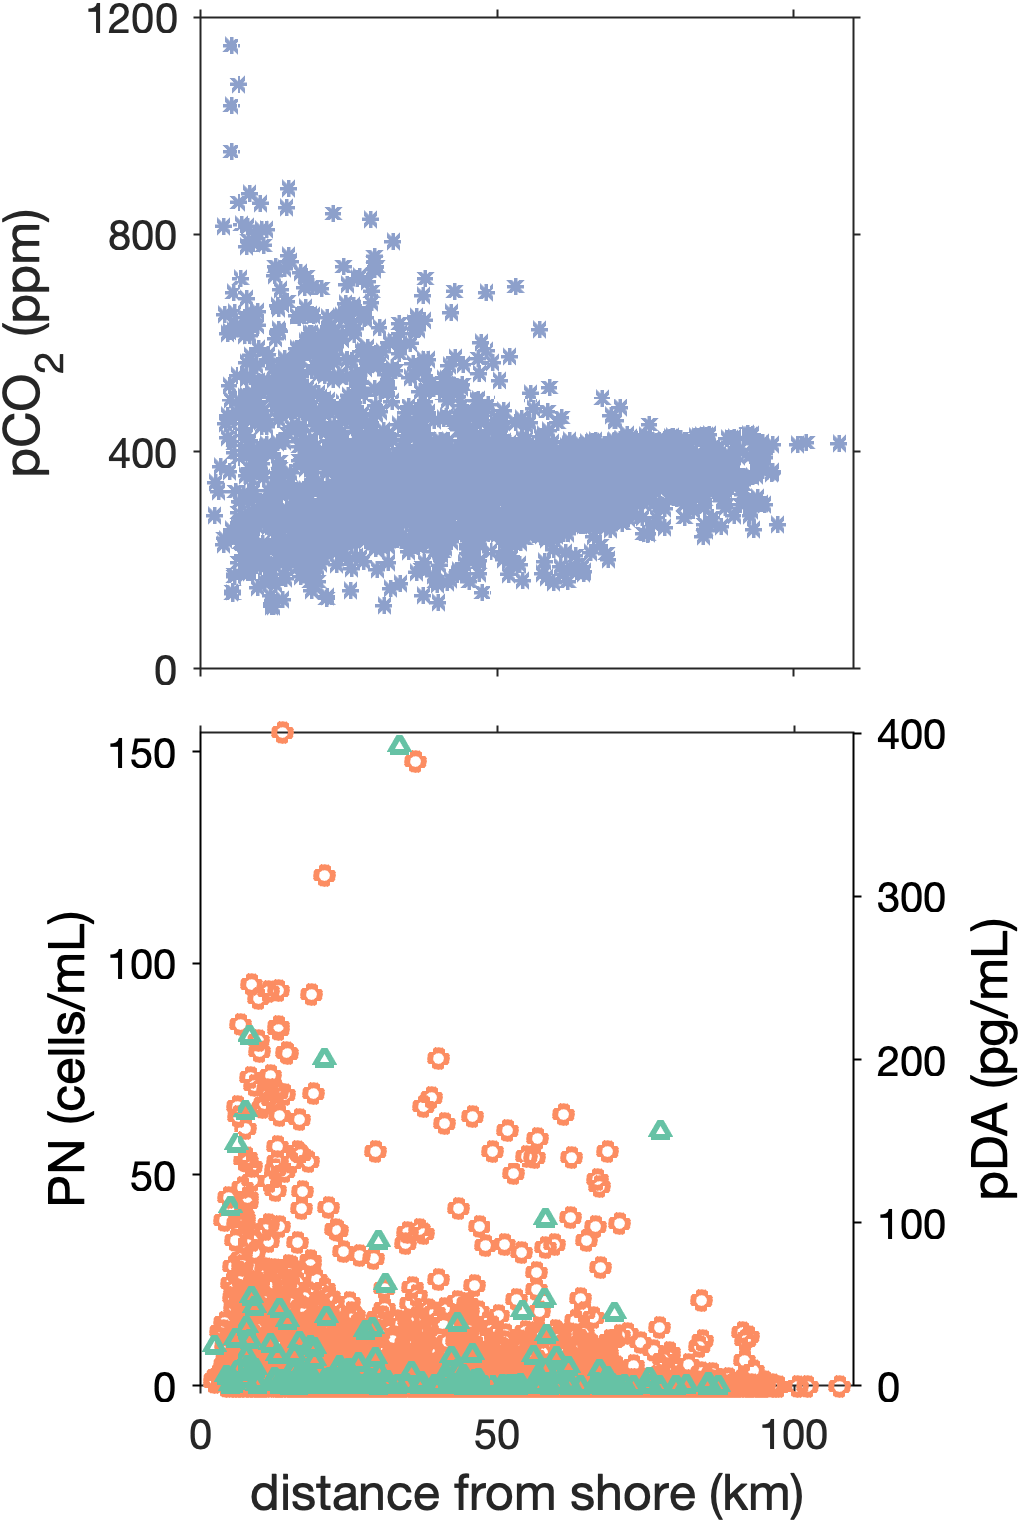
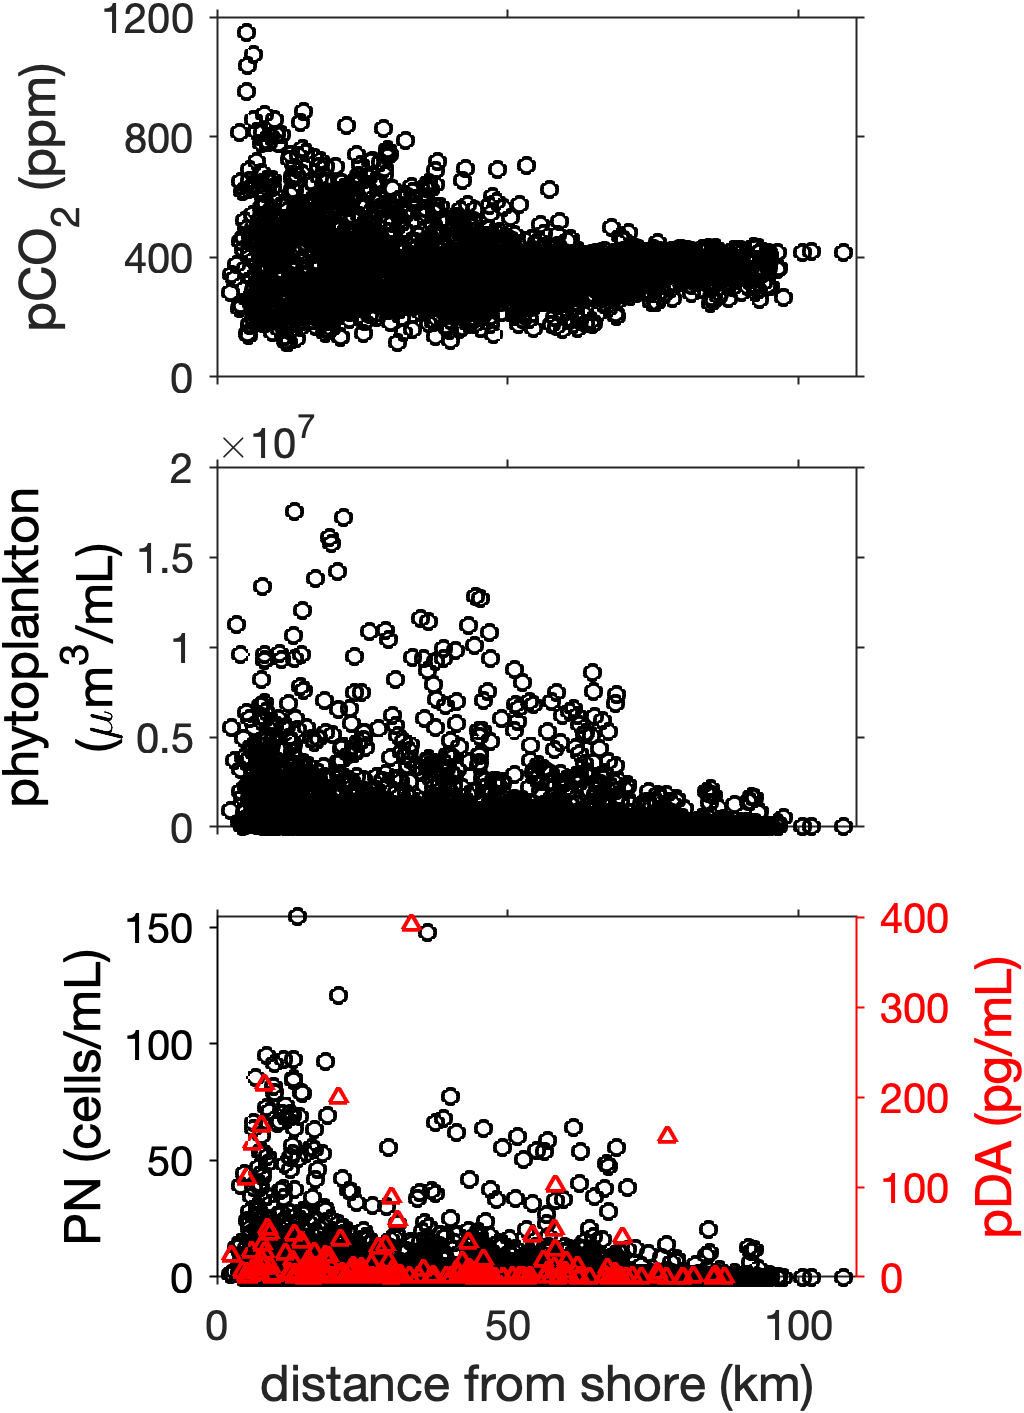
Fl in summary file

diff --git a/NOAA/Shimada/plot_distance_pCO2_PN.m b/NOAA/Shimada/plot_distance_pCO2_PN.m
@@ -1,0 +1,125 @@
+%% dome shaped relationship
+clear;
+filepath = '~/Documents/MATLAB/bloom-baby-bloom/';
+addpath(genpath('~/Documents/MATLAB/ifcb-analysis/')); % add new data to search path
+addpath(genpath(filepath)); % add new data to search path
+
+load([filepath 'NOAA/Shimada/Data/summary_19-21Hake_4nicheanalysis.mat'],'P');
+
+%% split data by region
+
+iJ=(P.LAT>48);
+iH=(P.LAT>43 & P.LAT<45);
+iT=(P.LAT<43);
+
+c=brewermap(3,'Set2');
+fig=figure; set(gcf,'color','w','Units','inches','Position',[1 1 3.5 5.]); 
+subplot = @(m,n,p) subtightplot (m, n, p, [0.06 0.06], [0.12 0.04], [0.21 0.18]);
+%subplot = @(m,n,p) subtightplot(m,n,p,opt{:}); 
+%where opt = {gap, height, width} describes the inner and outer spacings.  
+
+subplot(3,1,1)
+scatter(P.coast_km,P.PCO2,14,'ko','linewidth',1)
+set(gca,'xlim',[0 110],'xtick',0:50:100,'xticklabel',{},...
+    'ytick',0:400:1200,'ylim',[0 1200],'tickdir','out','fontsize',10);
+ylabel('pCO_2 (ppm)','fontsize',12)
+box on;
+
+% subplot(3,1,2)
+% scatter(P.coast_km(iJ),P.PN_cell(iJ),14,c(1,:),'d','linewidth',1); hold on;
+% scatter(P.coast_km(iH),P.PN_cell(iH),14,c(2,:),'*','linewidth',1); hold on;
+% scatter(P.coast_km(iT),P.PN_cell(iT),14,c(3,:),'o','linewidth',1); hold on;
+% set(gca,'xlim',[0 110],'xtick',0:50:100,'xticklabel',{},...
+%     'tickdir','out','fontsize',10);
+% legend('JDF','HB','TH'); legend boxoff;
+% ylabel('PN (cells/mL)','fontsize',12,'color','k')
+% box on;
+
+subplot(3,1,2)
+scatter(P.coast_km,sum([P.diatom_biovol,P.dino_biovol],2),14,'ko','linewidth',1)
+set(gca,'ylim',[0 2*10^7],'xlim',[0 110],'xtick',0:50:100,'xticklabel',{},...
+    'tickdir','out','fontsize',10);
+ylabel({'phytoplankton';'(\mum^3/mL)'},'fontsize',12,'color','k')
+box on;
+
+subplot(3,1,3)
+yyaxis left
+scatter(P.coast_km,P.PN_cell,14,c(2,:),'ko','linewidth',1)
+set(gca,'ycolor','k')
+ylabel('PN (cells/mL)','fontsize',12,'color','k')
+
+yyaxis right
+scatter(P.coast_km,P.pDA_pgmL,14,'r^','linewidth',1)
+set(gca,'xlim',[0 110],'xtick',0:50:100,'tickdir','out','ycolor','r');
+xlabel('distance from shore (km)','fontsize',12)
+ylabel('pDA (pg/mL)','fontsize',12,'color','r')
+box on;
+
+exportgraphics(fig,[filepath 'NOAA/Shimada/Figs/distance_pCO2_PN_DA.png'],'Resolution',300)    
+
+%%
+c=brewermap(3,'Set2');
+fig=figure; set(gcf,'color','w','Units','inches','Position',[1 1 3.5 4.]); 
+subplot = @(m,n,p) subtightplot (m, n, p, [0.06 0.06], [0.12 0.04], [0.21 0.18]);
+%subplot = @(m,n,p) subtightplot(m,n,p,opt{:}); 
+%where opt = {gap, height, width} describes the inner and outer spacings.  
+
+subplot(2,1,1)
+scatter(P.coast_km,P.PCO2,14,'ko','linewidth',1)
+set(gca,'xlim',[0 110],'xtick',0:50:100,'xticklabel',{},...
+    'ytick',0:400:1200,'ylim',[0 1200],'tickdir','out','fontsize',10);
+ylabel('pCO_2 (ppm)','fontsize',12)
+box on;
+
+subplot(2,1,2)
+yyaxis left
+scatter(P.coast_km,P.PN_cell,14,c(2,:),'ko','linewidth',1)
+set(gca,'ycolor','k')
+ylabel('PN (cells/mL)','fontsize',12,'color','k')
+
+yyaxis right
+scatter(P.coast_km,P.pDA_pgmL,14,'r^','linewidth',1)
+set(gca,'xlim',[0 110],'xtick',0:50:100,'tickdir','out','ycolor','r');
+xlabel('distance from shore (km)','fontsize',12)
+ylabel('pDA (pg/mL)','fontsize',12,'color','r')
+box on;
+
+%exportgraphics(fig,[filepath 'NOAA/Shimada/Figs/distance_pCO2_PN_DA.png'],'Resolution',300)    
+
+%%
+
+% subplot(3,1,2)
+% scatter(P.coast_km,P.chlA_ugL,14,'ko','linewidth',1)
+% set(gca,'xlim',[0 110],'xtick',0:50:100,'xticklabel',{},...
+%     'ytick',0:20:40,'ylim',[0 43],'tickdir','out','fontsize',10);
+% ylabel('Chl a (ug/L)','fontsize',12,'color','k')
+% box on;
+
+%% older
+c=brewermap(3,'Set2');
+fig=figure; set(gcf,'color','w','Units','inches','Position',[1 1 3.5 5.3]); 
+subplot = @(m,n,p) subtightplot (m, n, p, [0.04 0.04], [0.1 0.04], [0.13 0.1]);
+%subplot = @(m,n,p) subtightplot(m,n,p,opt{:}); 
+%where opt = {gap, height, width} describes the inner and outer spacings.  
+subplot(2,1,1)
+scatter(P.coast_km,P.PCO2,16,c(3,:),'*','linewidth',1)
+set(gca,'xlim',[0 110],'xtick',0:50:100,'xticklabel',{},...
+    'ytick',0:400:1200,'tickdir','out','fontsize',10);
+ylabel('pCO_2 (ppm)','fontsize',12)
+axis square; box on;
+
+subplot(2,1,2)
+yyaxis left
+scatter(P.coast_km,P.PN_cell,16,c(2,:),'o','linewidth',1.6)
+set(gca,'ycolor','k')
+ylabel('PN (cells/mL)','fontsize',12,'color','k')
+
+yyaxis right
+scatter(P.coast_km,P.pDA_pgmL,16,c(1,:),'^','linewidth',1.5)
+set(gca,'xlim',[0 110],'xtick',0:50:100,'tickdir','out','ycolor','k');
+xlabel('distance from shore (km)','fontsize',12)
+ylabel('pDA (pg/mL)','fontsize',12,'color','k')
+axis square; box on;
+
+exportgraphics(fig,[filepath 'NOAA/Shimada/Figs/distance_pCO2_PN_DA.png'],'Resolution',300)    
+

diff --git a/NOAA/Shimada/make_Hake_summary_4niche_analysis.m b/NOAA/Shimada/make_Hake_summary_4niche_analysis.m
@@ -12,11 +12,11 @@ addpath(genpath(filepath));
 
 %%%% match timestamps of sensor data and HAB data
 %%%% merge 2019 and 2021 data
-S19=load([filepath 'NOAA/Shimada/Data/environ_Shimada2019'],'DT','LON','LAT','TEMP','SAL','PCO2');
-S21=load([filepath 'NOAA/Shimada/Data/environ_Shimada2021'],'DT','LON','LAT','TEMP','SAL','PCO2');
+S19=load([filepath 'NOAA/Shimada/Data/environ_Shimada2019'],'DT','LON','LAT','TEMP','SAL','PCO2','FL');
+S21=load([filepath 'NOAA/Shimada/Data/environ_Shimada2021'],'DT','LON','LAT','TEMP','SAL','PCO2','FL');
 DT=[S19.DT;S21.DT]; LON=[S19.LON;S21.LON]; LAT=[S19.LAT;S21.LAT];
-TEMP=[S19.TEMP;S21.TEMP]; SAL=[S19.SAL;S21.SAL]; PCO2=[S19.PCO2;S21.PCO2];
-T=timetable(DT,LAT,LON,TEMP,SAL,PCO2);
+TEMP=[S19.TEMP;S21.TEMP]; SAL=[S19.SAL;S21.SAL]; PCO2=[S19.PCO2;S21.PCO2]; FL=[S19.FL;S21.FL];
+T=timetable(DT,LAT,LON,TEMP,SAL,PCO2,FL);
 
 load([filepath 'NOAA/Shimada/Data/HAB_merged_Shimada19-21'],'HA'); %GMT time
 HA.dt.Format='yyyy-MM-dd HH:mm:ss'; HA.dt=dateshift(HA.dt,'start','minute');
@@ -67,7 +67,7 @@ for i=1:length(idx)
     T.P2N(irange)=T.P2N(idx(i));      
 end
 
-clearvars S19 S21 LON LAT TEMP SAL PCO2 H HA DT i 
+clearvars S19 S21 LON LAT TEMP SAL PCO2 H HA DT i FL
 
 %% format IFCB data
 load([filepath 'IFCB-Data/Shimada/class/summary_biovol_allTB_' classifiername],...
@@ -172,7 +172,7 @@ P.pDA_fgmL=P.pDA_pgmL.*0.001.*1000000; %convert to fg/mL
 % make 2019 and 2021 datasets equivalent
 P(P.LAT<40,:)=[]; % remove data south of 40 N
 P(P.LAT>47.5 & P.LON>-124.7,:)=[]; %remove data from the Strait
-P=movevars(P,{'LAT' 'LON' 'gap_km' 'sample_km' 'coast_km' 'TEMP' 'SAL' 'PCO2' 'Nitrate_uM' 'Phosphate_uM' ...
+P=movevars(P,{'LAT' 'LON' 'gap_km' 'sample_km' 'coast_km' 'TEMP' 'SAL' 'PCO2' 'FL' 'Nitrate_uM' 'Phosphate_uM' ...
     'Silicate_uM' 'P2N' 'S2N' 'chlA_ugL' 'pDA_pgmL' 'pDA_fgmL'},'Before','filelistTB');
 P(isnan(P.LAT),:)=[];
 

diff --git a/NOAA/Shimada/map_pcolor_discrete_enviro_Shimada_CCS.m b/NOAA/Shimada/map_pcolor_discrete_enviro_Shimada_CCS.m
@@ -13,8 +13,8 @@ unit=0.06;
 %%%% load in discrete data
 load([filepath 'NOAA/Shimada/Data/HAB_merged_Shimada19-21'],'HA');
 HA((HA.lat<40),:)=[]; %remove CA stations
-%data=HA.chlA_ugL; cax=[1 20]; ticks=[1,10,20]; label={'Extracted';'Chl a (ug/L)'};%name='CHL'; col=brewermap(256,'BuGn'); col(1:50,:)=[]; lim=0;
-data=HA.Nitrate_uM; cax=[0 48]; ticks=[0,24,48]; label={'NO_3^- (\muM)'}; name='NIT'; col=brewermap(256,'BuGn'); col(1:50,:)=[]; lim=0.6;
+data=HA.chlA_ugL; cax=[0 20]; ticks=[0,10,20]; label={'Chl a (ug/L)'}; name='CHL'; col=brewermap(256,'BuGn'); col(1:50,:)=[]; lim=.1;
+%data=HA.Nitrate_uM; cax=[0 48]; ticks=[0,24,48]; label={'NO_3^- (\muM)'}; name='NIT'; col=brewermap(256,'BuGn'); col(1:50,:)=[]; lim=0.6;
 %data=HA.Phosphate_uM; cax=[0 3]; ticks=[0,1.5,3]; label={'PO_4^{3−} (\muM)'}; name='PHS';col=brewermap(256,'BuGn'); col(1:50,:)=[]; lim=0.6;
 %data=HA.Silicate_uM; cax=[0 48]; ticks=[0,24,48]; label={'Si(OH)_4 (\muM)'}; name='SIL';col=brewermap(256,'BuGn'); col(1:50,:)=[]; lim=1.1;
 %data=HA.Silicate_uM; cax=[0 300]; ticks=[0,300]; label={'Si(OH)_4 (\muM)'}; name='SILHi';col=brewermap(256,'BuGn'); col(1:50,:)=[]; lim=1.1;
@@ -30,12 +30,15 @@ elseif yr==2021
     data=data(idx); lat = HA.lat(idx); lon = HA.lon(idx);  
 end
 
-idx=(find(data>lim))
-%idx=find(lat>44 & lat<46);
-nanmean(data(idx))
-nanstd(data(idx))
-%length(find(data(idx)>lim))./length(data(idx))
+max(data)
+
 %%
+%idx=(find(data>lim))
+%idx=find(lat>44 & lat<46);
+%nanmean(data(idx))
+%nanstd(data(idx))
+%length(find(data(idx)>lim))./length(data(idx))
+
 if strcmp(name,'SiNi') || strcmp(name,'PhNi') 
     val=HA.Nitrate_uM; val=val(idx);
 end
